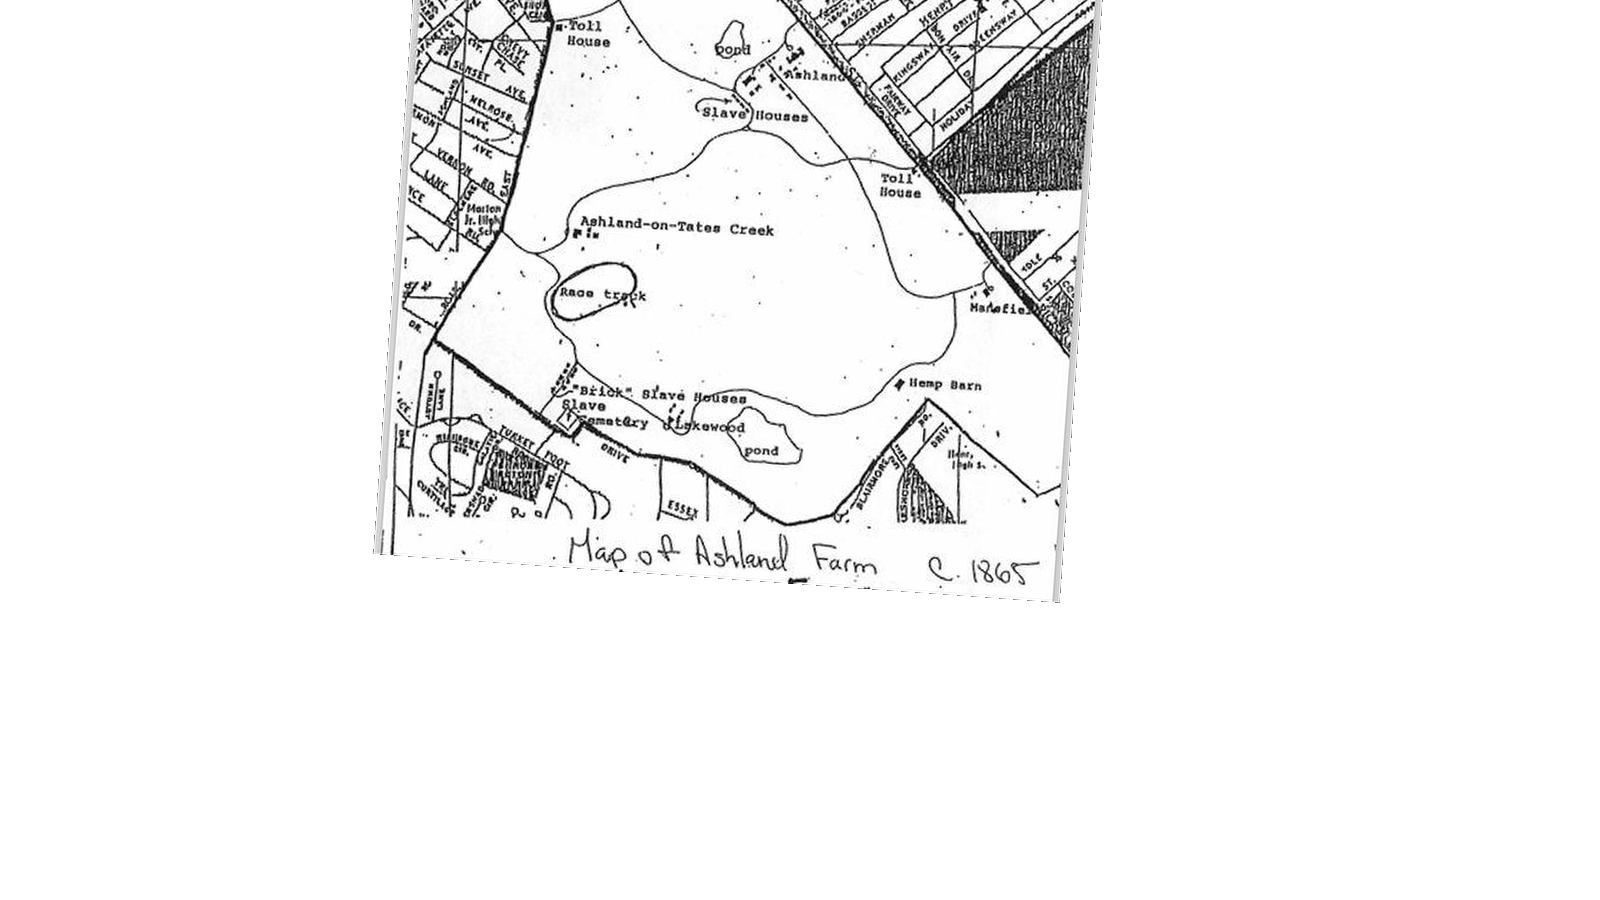
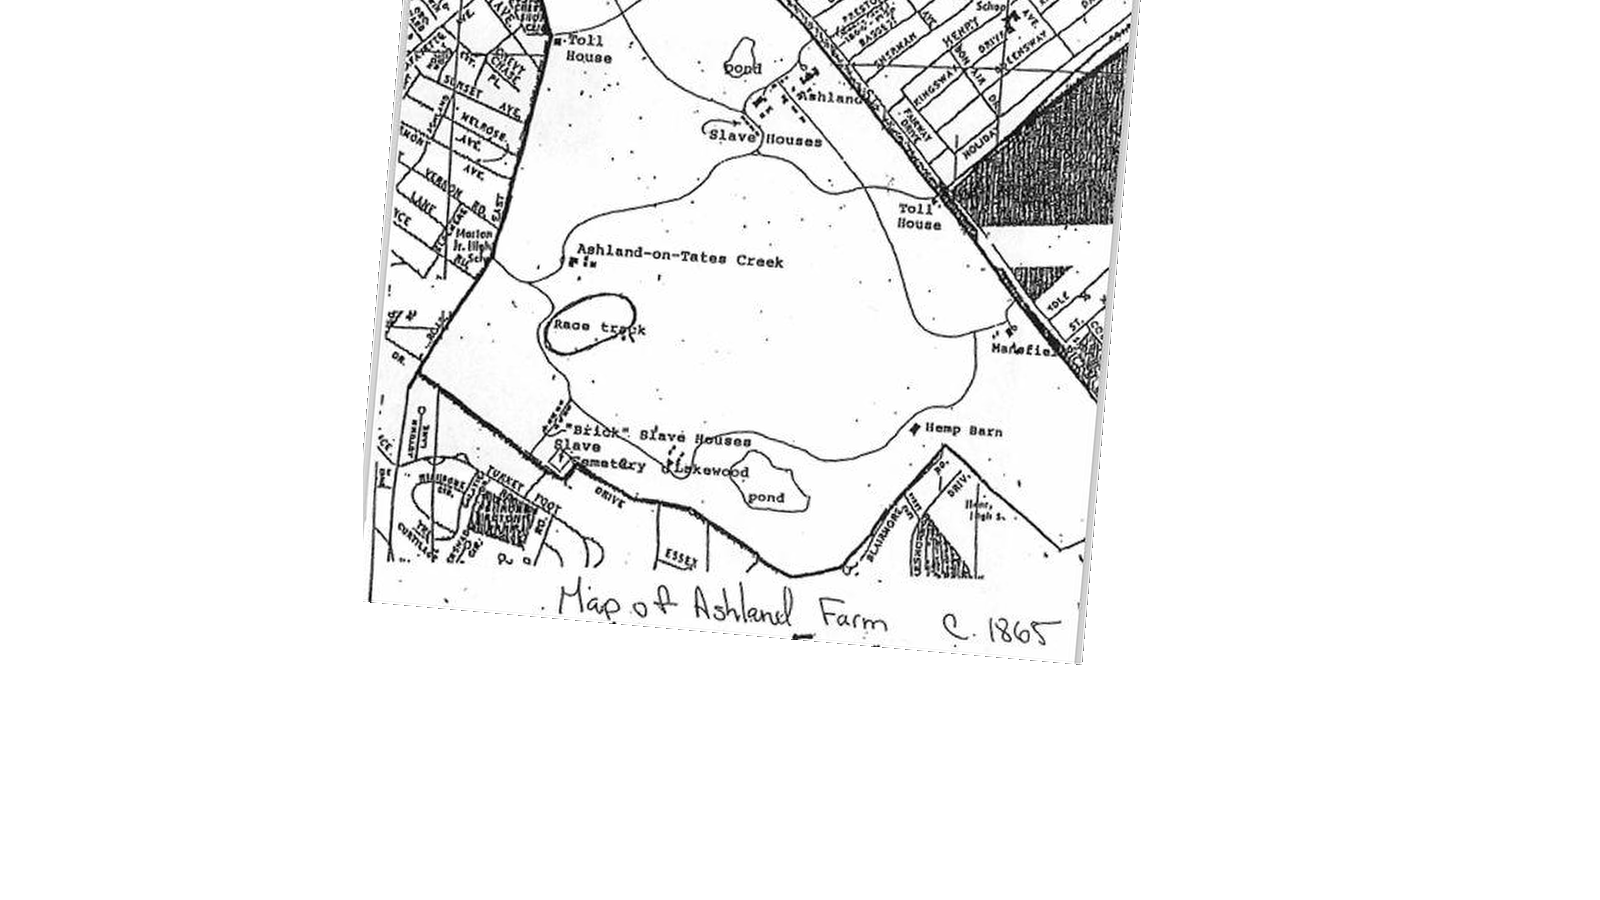
fix(1865): combined road-shape + junction fit (1.342x) replaces road-only fit; Morton lands on the T badge

Changed region(s): [[0.2188, 0.0, 0.7188, 0.7467]]

diff --git a/src/data/analysisChapters.ts b/src/data/analysisChapters.ts
@@ -61,9 +61,9 @@ export const ANALYSIS_CHAPTERS: AnalysisChapter[] = [
       "The large industrial 'Hemp Barn' was situated near the eastern boundary along modern Blairmore Drive."
     ],
     mlModelDetails: {
-      algorithm: "Rigid Road-Shape Similarity: the sheet's Richmond Rd and Tates Creek Pike ink fitted to the modern centrelines (single rotation + uniform scale, no local warping)",
-      metrics: "Sheet road ink 4 px (Richmond) and 3 px (Tates Creek) off the modern centrelines at 1.256x / +4.1 deg; Ashland house 20 px, Richmond toll house 19 px and Cooper Dr at the Chinoe dot 18 px as free checks",
-      controlPoints: "Richmond Rd corridor and Tates Creek Pike; checks: Ashland house, Richmond toll house, Morton Jr High, Cooper Dr/Chinoe",
+      algorithm: "Rigid Road-Shape Similarity: the sheet's Richmond Rd and Tates Creek Pike ink line-fitted to the modern centrelines, pinned by the Tates Creek bend at Morton, the Richmond toll house and the Ashland house (single rotation + uniform scale, no local warping)",
+      metrics: "Road ink 5 px (Richmond) and 6 px (Tates Creek) off the modern centrelines at 1.342x / +5.0 deg; Tates Creek bend 33 px, Richmond toll house 27 px, Ashland 45 px; Morton Jr High lands on the school as a free check",
+      controlPoints: "Richmond Rd and Tates Creek Pike ink, Tates Creek bend, Richmond toll house, Ashland house; checks: Morton Jr High, Cooper Dr/Chinoe",
       confidence: 85
     },
     hotspots: [
@@ -372,7 +372,7 @@ export const ANALYSIS_CHAPTERS: AnalysisChapter[] = [
     ],
     mlModelDetails: {
       algorithm: "Field geolocation by B.P. Thompson; pin placed at the centroid of his Slide 7 headstones marker (782.7, 577.5)",
-      metrics: "With the sheet's streets registered, its hand-drawn Slave Cemetery symbol lands roughly 270 px northwest of the headstones (Indian Mound area) - the 1865 sketch, not the street base, carries that offset",
+      metrics: "With the sheet's streets registered, its hand-drawn Slave Cemetery symbol lands roughly 250 px northwest of the headstones (Indian Mound area) - the 1865 sketch, not the street base, carries that offset",
       controlPoints: "1337 Cooper Drive parcel boundary and dry-stone wall alignment",
       confidence: 95
     },

diff --git a/scripts/ml_align_v2.py b/scripts/ml_align_v2.py
@@ -186,14 +186,14 @@ print("=" * 70); print(" Henry Clay Estate - alignment v2 (street-geometry contr
 # ==========================================================================
 print("\n--- [Tab 1/5] 1865 Ashland Farm sheet (rigid two-road shape fit) ---")
 img = cv2.imread(os.path.join(MAPS, "1865_ashland_farm_raw.png"))
-# Similarity fitted on ROAD SHAPES: the sheet's heavy Richmond Rd ('MAIN ST') line and its west boundary
-# along Tates Creek Pike, chamfer-fitted to the modern centrelines (multi-start over rotation -14..12 deg,
-# scale 0.9..1.9), with the Ashland house and the Richmond toll house as soft checks. Converged at
-# +4.1 deg / 1.256x: Richmond ink 3.8 px, Tates Creek ink 2.7 px off centreline. No local warping.
-# (The earlier 1.59x fits were driven by bad point targets - school building centre, estate POI badge,
-#  sketched cemetery pinned to the headstones - not by the sheet.)
-M1865 = np.array([[1.252935, -0.08906864, 437.4679],
-                  [0.08906864, 1.252935, -349.2081]])
+# Similarity fitted on ROAD SHAPES + junctions: the sheet's Richmond Rd ('MAIN ST') line and its west boundary
+# along Tates Creek Pike are ICP-projected onto the modern centrelines (weight 0.6 per ink sample), with three
+# point pairs: the Tates Creek bend at Morton Jr High -> the bend by the T badge (490,240) [w2], the Richmond
+# toll house -> Chinoe junction [w2], the Ashland house -> estate badge [w1]. Converged at +5.0 deg / 1.342x:
+# Richmond ink 5.4 px, Tates Creek ink 5.8 px; bend 33 px, toll 27 px, Ashland 45 px. Morton Jr High lands on
+# the T badge as a free check. Roads alone leave the along-road position ambiguous; the junctions break the tie.
+M1865 = np.array([[1.336771, -0.1174308, 434.4615],
+                  [0.1174308, 1.336771, -362.9056]])
 SHEET_RICHMOND = [(150,90),(200,150),(258,216),(317,266),(367,324),(400,374),(437,412),(500,466),(548,510)]
 SHEET_TATES = [(104,258),(100,300),(93,360),(86,420),(79,460),(60,495),(45,525),(33,549)]
 SAT_TATES_1865 = [(548,10),(538,60),(528,110),(520,150),(505,195),(490,240),(472,270),(455,300),(435,335),(415,375),(398,415),(388,450),(382,500),(379,550),(380,600),(383,650),(386,700),(389,750),(392,800),(395,850),(398,900)]
@@ -208,17 +208,18 @@ def _sheet_road_off(trace):
     ok = (Q[:, 0] >= SAT_X0) & (Q[:, 0] < SAT_X1) & (Q[:, 1] >= 0) & (Q[:, 1] < CANVAS_H)
     return float(np.minimum(_dt[Q[ok, 1].astype(int), Q[ok, 0].astype(int)], 40).mean())
 off_r, off_t = _sheet_road_off(SHEET_RICHMOND), _sheet_road_off(SHEET_TATES)
-CP_1865 = [  # checks only (sheet px on 1865_ashland_farm_raw.png [548x721] -> canvas anchor)
-    ("Ashland house",          (305, 313), CAN["mansion"]),
-    ("Richmond toll house",    (401, 376), CAN["richmond_chinoe"]),
-    ("Morton Jr High",         (62, 449),  CAN["tates_cooper_T"]),
-    ("Cooper Dr @Chinoe dot",  (277, 665), CAN["cooper_chinoe"]),
+CP_1865 = [  # (sheet px on 1865_ashland_farm_raw.png [548x721] -> canvas anchor); first three are fit inputs
+    ("Tates Creek bend @Morton", (86, 420),  (490.0, 240.0)),
+    ("Richmond toll house",      (401, 376), CAN["richmond_chinoe"]),
+    ("Ashland house",            (305, 313), CAN["mansion"]),
+    ("Morton Jr High (check)",   (62, 449),  CAN["tates_cooper_T"]),
+    ("Cooper Dr @Chinoe (check)",(277, 665), CAN["cooper_chinoe"]),
 ]
 lab = [c[0] for c in CP_1865]; S = np.float32([c[1] for c in CP_1865]); D = np.float32([c[2] for c in CP_1865])
 s, th = sim_params(M1865); print(f"   sheet->canvas: scale {s:.3f}, rotation {th:+.2f} deg | road ink off centreline: Richmond {off_r:.1f} px, Tates Creek {off_t:.1f} px")
-record("1865_farm", "Rigid similarity fitted on road shapes: Richmond Rd + Tates Creek Pike ink vs modern centrelines (chamfer, multi-start)", "Zero (single rotation + uniform scale; no local warping)",
+record("1865_farm", "Rigid similarity: Richmond Rd + Tates Creek Pike ink line-fitted to modern centrelines, pinned by the Tates Creek bend, Richmond toll house and Ashland house", "Zero (single rotation + uniform scale; no local warping)",
        S, D, lab, M1865, "1865_ashland_farm_aligned.png",
-       f"Road-shape fit; the listed points are checks only. Sheet road ink off modern centreline: Richmond {off_r:.1f} px, Tates Creek {off_t:.1f} px. "
+       f"Road-shape + junction fit (first three points are inputs, the rest checks). Sheet road ink off modern centreline: Richmond {off_r:.1f} px, Tates Creek {off_t:.1f} px. "
        "The hand-drawn 1865 features (race track, cemetery, ponds, hemp barn) sit where the sheet places them relative to its street base and are not forced onto modern finds.")
 TELEM["models"]["1865_farm"]["road_residual_px"] = {"richmond_rd": round(off_r, 1), "tates_creek_rd": round(off_t, 1)}
 layer = warp_rgba(img, M1865)
